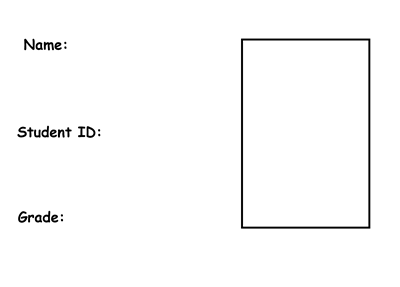
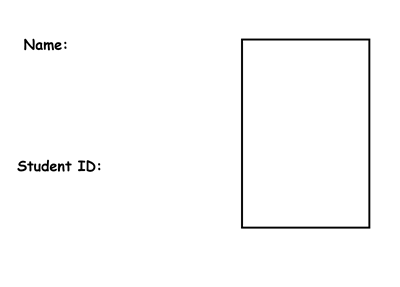
new

Changed region(s): [[0.03, 0.5575, 0.24, 0.6132], [0.03, 0.4181, 0.27, 0.5017], [0.03, 0.7247, 0.15, 0.7805]]

diff --git a/src/cardbutton.java b/src/cardbutton.java
@@ -1,51 +1,60 @@
 
 
-	import java.awt.*;
-	import java.awt.event.*;  
-
+import java.awt.*;
+import java.awt.event.*;  
 import javax.swing.*;  
 
 
-		public class cardbutton{ 
+		public class cardButton{ 
 		      
-			cardbutton()  
+			JPanel completeCard = new JPanel();
+			cardButton()  
 	        {  
-	        JFrame f= new JFrame("Panel Example");    
-	        JPanel panel=new JPanel();  
-	        panel.setBounds(0,0,400,287);    
-			JButton b =new JButton();
-			Icon a=new ImageIcon(getClass().getResource("studentcardtemplate.png"));
-			b.setIcon(a);
-			panel.add(b);
-			JPanel panel2=new JPanel();  
-	        panel2.setBounds(0,287,400,574);    
-			JButton c =new JButton();
-			c.setIcon(a);
-			panel2.add(c);
-	        f.add(panel);  
-	        f.add(panel2);
-	        f.setSize(1000,1000);    
-	        f.setLayout(null);    
-	        f.setVisible(true);    
-	        
-	        
-
-	        
-            b.addActionListener(new ActionListener(){  
+			
+			completeCard.setSize(400, 287);
+			JButton studentCard =new JButton();
+			Icon cardImg=new ImageIcon(getClass().getResource("studentcardtemplate.png"));
+			studentCard.setIcon(cardImg);        
+            studentCard.addActionListener(new ActionListener(){  
                 public void actionPerformed(ActionEvent e){  
                         System.out.println("pressed");
                 }  
-                });}  
-
+                });
+            completeCard.add(studentCard);
+            }  
 			
 			
-	        public static void main(String args[])  
+			
+	        public void createAndDisplayButton(Student x)  
 	        {  
-	        	new cardbutton();
-
-	            
+	        	completeCard.setLayout(new FlowLayout());
+	        	String name = x.getName();
+	        	String StudId =Integer.toString(x.getStudID());
+	        	JLabel nameLabel = new JLabel();
+	        	JLabel StudIdLabel = new JLabel();
+	        	StudIdLabel.setText(StudId);
+	        	nameLabel.setText(name);
+	        	nameLabel.setLocation(85, 37);
+	        	StudIdLabel.setLocation(115, 160);
+	        	completeCard.add(nameLabel);
+	        	completeCard.add(StudIdLabel);
+	        	 
+	        	JFrame f= new JFrame("test");
+	        	
+	            f.setSize(1000,1300);  
+	            f.setLayout(null);  
+	            f.setVisible(true);  
+	            f.add(completeCard); //////////
+	        	
 	        }  
+	        public static void main(String[] args)
+	        {
+	        	cardButton test = new cardButton();
+	        	Student a = new Student ("smith", "bob", 111111, false);
+	        	test.createAndDisplayButton(a);
+	        	
+	        	
+	        }
+	        
 		  
-		}  
-
-
+} 
